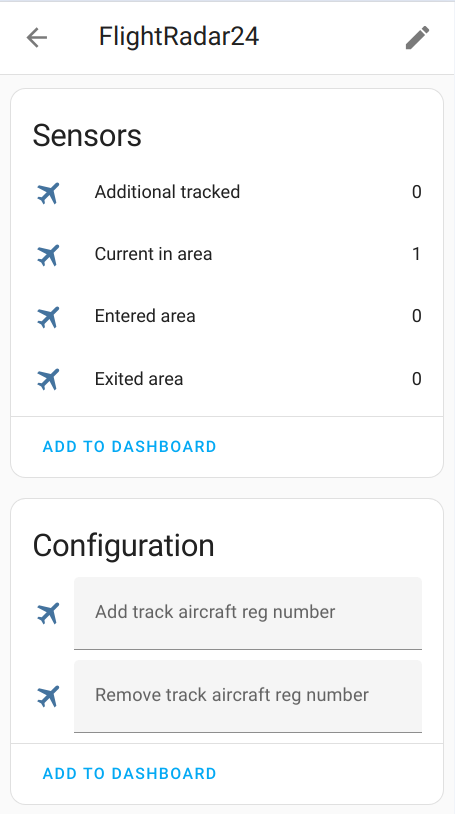
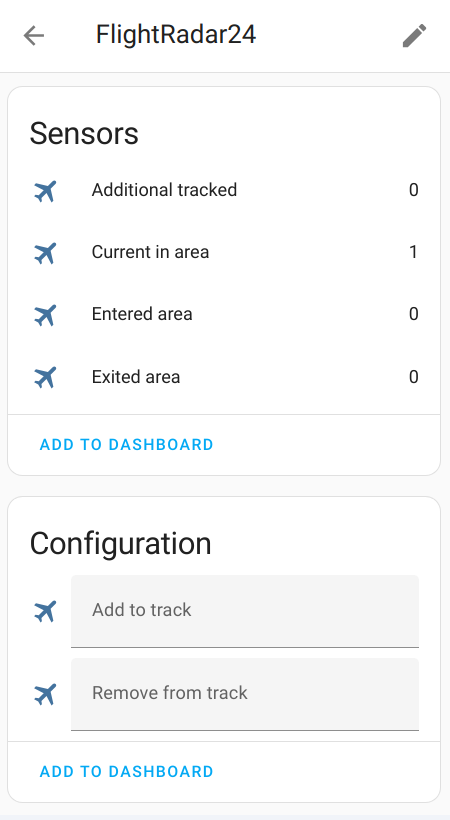
Added Adding/Removing supports flight number, call sign, aircraft registration number

diff --git a/custom_components/flightradar24/coordinator.py b/custom_components/flightradar24/coordinator.py
@@ -55,13 +55,21 @@ class FlightRadar24Coordinator(DataUpdateCoordinator[int]):
 
     async def add_track(self, number: str) -> None:
         try:
-            flights = await self.hass.async_add_executor_job(self._client.get_flights, None, None, number)
+            flights = await self.hass.async_add_executor_job(self._client.search, number)
+            flights = flights.get('live')
             if not flights:
-                self.logger.error('FlightRadar24: No flight found by number - {}'.format(number))
+                self.logger.error('FlightRadar24: No flight found by - {}'.format(number))
                 return
             current: dict[int, dict[str, Any]] = {}
-            for flight in flights:
-                await self._update_flights_data(flight, current, self.tracked)
+            data = [None] * 20
+            data[1] = self._get_value(flights, [0, 'detail', 'lat'])
+            data[2] = self._get_value(flights, [0, 'detail', 'lon'])
+            data[13] = []
+            flight = Flight(self._get_value(flights, [0, 'id']), data)
+            flight.registration = self._get_value(flights, [0, 'detail', 'reg'])
+            flight.callsign = self._get_value(flights, [0, 'detail', 'callsign'])
+
+            await self._update_flights_data(flight, current, self.tracked)
             self.tracked = self.tracked | current if self.tracked else current
         except Exception as e:
             self.logger.error(e)
@@ -69,7 +77,8 @@ class FlightRadar24Coordinator(DataUpdateCoordinator[int]):
     async def remove_track(self, number: str) -> None:
         flight_id = None
         for flight_id in self.tracked:
-            if number == self.tracked[flight_id]['aircraft_registration']:
+            flight = self.tracked[flight_id]
+            if number in [flight['aircraft_registration'], flight['flight_number'], flight['callsign']]:
                 break
         if flight_id is not None:
             del self.tracked[flight_id]
@@ -147,16 +156,17 @@ class FlightRadar24Coordinator(DataUpdateCoordinator[int]):
         return flight.get('flight_number') is not None
 
     @staticmethod
-    def _get_flight_data(flight: dict) -> dict[str, Any] | None:
-        def _get_value(dictionary: dict, keys: list) -> Any | None:
-            nested_dict = dictionary
+    def _get_value(dictionary: dict, keys: list) -> Any | None:
+        nested_dict = dictionary
 
-            for key in keys:
-                try:
-                    nested_dict = nested_dict[key]
-                except Exception:
-                    return None
-            return nested_dict
+        for key in keys:
+            try:
+                nested_dict = nested_dict[key]
+            except Exception:
+                return None
+        return nested_dict
+
+    def _get_flight_data(self, flight: dict) -> dict[str, Any] | None:
 
         def _get_country_code(code: None | str) -> None | str:
             if code is None or len(code) == 2:
@@ -165,61 +175,45 @@ class FlightRadar24Coordinator(DataUpdateCoordinator[int]):
 
             return country.alpha_2 if country is not None else code
 
-        flight_id = _get_value(flight, ['identification', 'id'])
+        flight_id = self._get_value(flight, ['identification', 'id'])
         if flight_id is None:
             return None
 
         return {
             'id': flight_id,
-            'flight_number': _get_value(flight, ['identification', 'number', 'default']),
-            'callsign': _get_value(flight, ['identification', 'callsign']),
-            'aircraft_registration': _get_value(flight, ['aircraft', 'registration']),
-            'aircraft_photo_small': _get_value(flight,
-                                               ['aircraft', 'images', 'thumbnails', 0, 'src']),
-            'aircraft_photo_medium': _get_value(flight,
-                                                ['aircraft', 'images', 'medium', 0, 'src']),
-            'aircraft_photo_large': _get_value(flight,
-                                               ['aircraft', 'images', 'large', 0, 'src']),
-            'aircraft_model': _get_value(flight, ['aircraft', 'model', 'text']),
-            'aircraft_code': _get_value(flight, ['aircraft', 'model', 'code']),
-            'airline': _get_value(flight, ['airline', 'name']),
-            'airline_short': _get_value(flight, ['airline', 'short']),
-            'airline_iata': _get_value(flight, ['airline', 'code', 'iata']),
-            'airline_icao': _get_value(flight, ['airline', 'code', 'icao']),
-            'airport_origin_name': _get_value(flight, ['airport', 'origin', 'name']),
-            'airport_origin_code_iata': _get_value(flight,
-                                                   ['airport', 'origin', 'code', 'iata']),
-            'airport_origin_code_icao': _get_value(flight,
-                                                   ['airport', 'origin', 'code', 'icao']),
-            'airport_origin_country_name': _get_value(flight,
-                                                      ['airport', 'origin', 'position',
-                                                       'country', 'name']),
+            'flight_number': self._get_value(flight, ['identification', 'number', 'default']),
+            'callsign': self._get_value(flight, ['identification', 'callsign']),
+            'aircraft_registration': self._get_value(flight, ['aircraft', 'registration']),
+            'aircraft_photo_small': self._get_value(flight, ['aircraft', 'images', 'thumbnails', 0, 'src']),
+            'aircraft_photo_medium': self._get_value(flight, ['aircraft', 'images', 'medium', 0, 'src']),
+            'aircraft_photo_large': self._get_value(flight, ['aircraft', 'images', 'large', 0, 'src']),
+            'aircraft_model': self._get_value(flight, ['aircraft', 'model', 'text']),
+            'aircraft_code': self._get_value(flight, ['aircraft', 'model', 'code']),
+            'airline': self._get_value(flight, ['airline', 'name']),
+            'airline_short': self._get_value(flight, ['airline', 'short']),
+            'airline_iata': self._get_value(flight, ['airline', 'code', 'iata']),
+            'airline_icao': self._get_value(flight, ['airline', 'code', 'icao']),
+            'airport_origin_name': self._get_value(flight, ['airport', 'origin', 'name']),
+            'airport_origin_code_iata': self._get_value(flight, ['airport', 'origin', 'code', 'iata']),
+            'airport_origin_code_icao': self._get_value(flight, ['airport', 'origin', 'code', 'icao']),
+            'airport_origin_country_name': self._get_value(flight, ['airport', 'origin', 'position',
+                                                                    'country', 'name']),
             'airport_origin_country_code': _get_country_code(
-                _get_value(flight, ['airport', 'origin', 'position', 'country', 'code'])),
-            'airport_origin_city': _get_value(flight,
-                                              ['airport', 'origin', 'position', 'region',
-                                               'city']),
-            'airport_destination_name': _get_value(flight, ['airport', 'destination', 'name']),
-            'airport_destination_code_iata': _get_value(flight,
-                                                        ['airport', 'destination', 'code',
-                                                         'iata']),
-            'airport_destination_code_icao': _get_value(flight,
-                                                        ['airport', 'destination', 'code',
-                                                         'icao']),
-            'airport_destination_country_name': _get_value(flight,
-                                                           ['airport', 'destination',
-                                                            'position', 'country',
-                                                            'name']),
+                self._get_value(flight, ['airport', 'origin', 'position', 'country', 'code'])),
+            'airport_origin_city': self._get_value(flight, ['airport', 'origin', 'position', 'region', 'city']),
+            'airport_destination_name': self._get_value(flight, ['airport', 'destination', 'name']),
+            'airport_destination_code_iata': self._get_value(flight, ['airport', 'destination', 'code', 'iata']),
+            'airport_destination_code_icao': self._get_value(flight, ['airport', 'destination', 'code', 'icao']),
+            'airport_destination_country_name': self._get_value(flight, ['airport', 'destination',
+                                                                         'position', 'country', 'name']),
             'airport_destination_country_code': _get_country_code(
-                _get_value(flight,
-                           ['airport', 'destination', 'position', 'country', 'code'])),
-            'airport_destination_city': _get_value(flight,
-                                                   ['airport', 'destination', 'position',
-                                                    'region', 'city']),
-            'time_scheduled_departure': _get_value(flight, ['time', 'scheduled', 'departure']),
-            'time_scheduled_arrival': _get_value(flight, ['time', 'scheduled', 'arrival']),
-            'time_real_departure': _get_value(flight, ['time', 'real', 'departure']),
-            'time_real_arrival': _get_value(flight, ['time', 'real', 'arrival']),
-            'time_estimated_departure': _get_value(flight, ['time', 'estimated', 'departure']),
-            'time_estimated_arrival': _get_value(flight, ['time', 'estimated', 'arrival']),
+                self._get_value(flight, ['airport', 'destination', 'position', 'country', 'code'])),
+            'airport_destination_city': self._get_value(flight, ['airport', 'destination', 'position',
+                                                                 'region', 'city']),
+            'time_scheduled_departure': self._get_value(flight, ['time', 'scheduled', 'departure']),
+            'time_scheduled_arrival': self._get_value(flight, ['time', 'scheduled', 'arrival']),
+            'time_real_departure': self._get_value(flight, ['time', 'real', 'departure']),
+            'time_real_arrival': self._get_value(flight, ['time', 'real', 'arrival']),
+            'time_estimated_departure': self._get_value(flight, ['time', 'estimated', 'departure']),
+            'time_estimated_arrival': self._get_value(flight, ['time', 'estimated', 'arrival']),
         }

diff --git a/custom_components/flightradar24/text.py b/custom_components/flightradar24/text.py
@@ -27,14 +27,14 @@ class FlightRadar24TextEntityDescription(TextEntityDescription, FlightRadar24Tex
 SENSOR_TYPES: tuple[FlightRadar24TextEntityDescription, ...] = (
     FlightRadar24TextEntityDescription(
         key="add_track",
-        name="Add track aircraft reg number",
+        name="Add to track",
         icon="mdi:airplane",
         entity_category=EntityCategory.CONFIG,
         method=lambda coordinator, value: coordinator.add_track(value),
     ),
     FlightRadar24TextEntityDescription(
         key="remove_track",
-        name="Remove track aircraft reg number",
+        name="Remove from track",
         icon="mdi:airplane",
         entity_category=EntityCategory.CONFIG,
         method=lambda coordinator, value: coordinator.remove_track(value),

diff --git a/README.md b/README.md
@@ -1,11 +1,11 @@
 # Flightradar24 integration for Home Assistant
-Flightradar24 integration allows one to track overhead flights in a given region, or particular planes by aircraft registration number. It will also fire Home Assistant events when flights enter and exit the defined region.
+Flightradar24 integration allows one to track overhead flights in a given region or particular planes. It will also fire Home Assistant events when flights enter and exit the defined region.
 
 <b>IMPORTANT: No need FlightRadar24 subscription!</b>
 
 It allows you:
 1. Know how many flights in your area right now, or just have entered or exited it. And get list of flights with [full information](#flight) by every relevant flight for the sensor 
-2. Track a particular plane or planes by aircraft registration number no matter where it currently is
+2. Track a particular plane or planes no matter where it currently is
 3. Create notifications (example - [Get a notification when a flight enters or exits your area](#notification))
 4. Create automations (example - [Automatically track a flight by your needs](#automation))
 5. Add flights table to your [Home Assistant dashboard](https://www.home-assistant.io/dashboards/) by [Lovelace Card](#lovelace))
@@ -25,12 +25,12 @@ It allows you:
  - Additional tracked
 
 ### Configuration
- - Add track aircraft reg number
- - Remove track aircraft reg number
+ - Add to track
+ - Remove from track
 
 Sensors shows how many flights in the given area, additional tracked, just have entered or exited it. All sensors have attribute `flights` with list of [flight object](#flight) contained a full information by every relevant flight for the sensor
 
-Configuration inputs fields allows to add or remove a flight to/from sensor - Additional tracked
+Configuration inputs fields allows to add or remove a flight to/from sensor - Additional tracked. Adding/Removing supports flight number, call sign, aircraft registration number
 
 ## Installation
 
@@ -125,7 +125,7 @@ automation:
         data:
           value: "{{ trigger.event.data.aircraft_registration }}"
         target:
-          entity_id: text.flightradar24_add_aircraft_registration_number
+          entity_id: text.flightradar24_add_to_track
 ```
 
 This is an example to filter flights to track, change the conditions for your needs
@@ -231,7 +231,7 @@ recorder:
 | altitude | Altitude (measurement: foot) |
 | ground_speed | Ground speed (measurement: knots) |
 | squawk | Squawk code are what air traffic control (ATC) use to identify aircraft when they are flying **(for subscription only)** |
-| vertical_speed | Vertical speed **(for subscription only)** |
+| vertical_speed | Vertical speed |
 | heading | The compass direction in which the craft's bow or nose is pointed (measurement: degrees) |
 | callsign | Callsign of the flight |
 | aircraft_registration | Aircraft registration number |
